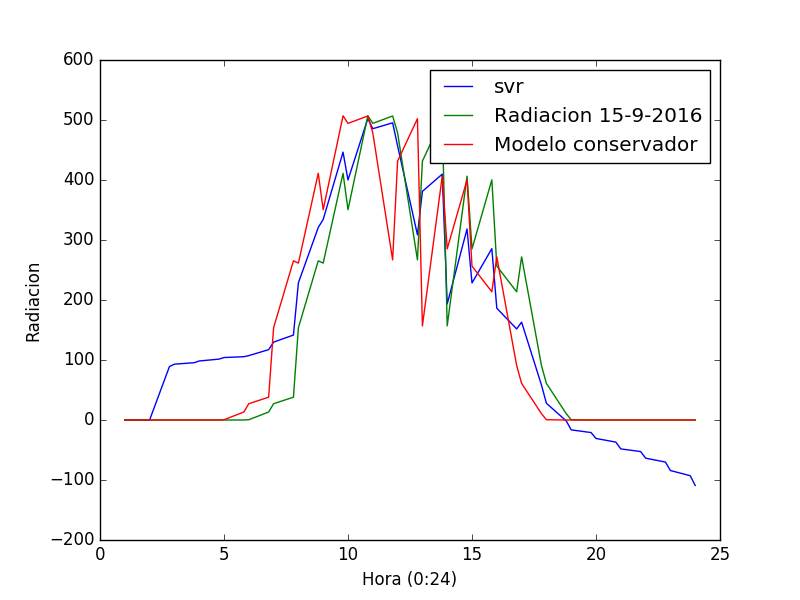
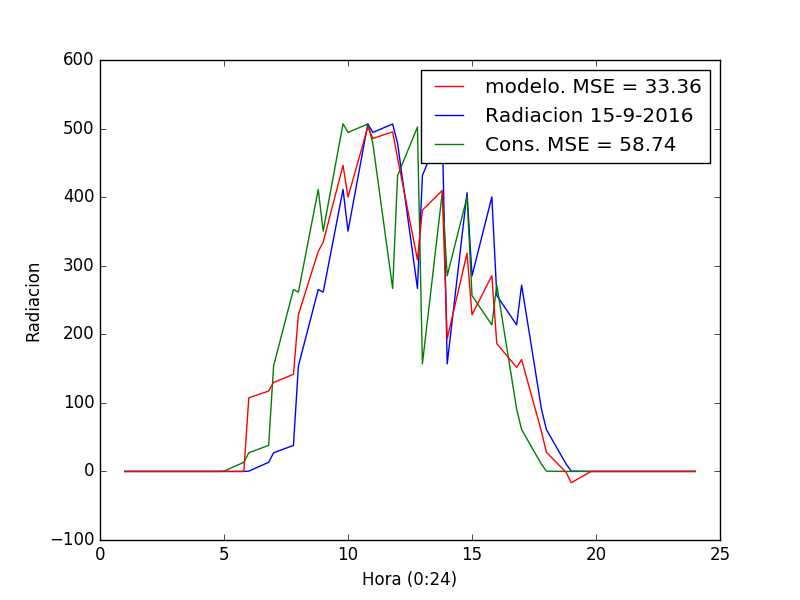
new plots and TODOS

diff --git a/memoria/chapter7.tex b/memoria/chapter7.tex
@@ -107,6 +107,8 @@ En el capítulo \ref{Appendix:Key2} (Anexo: Gráficas SVR) podemos observar vari
 
 % Explicar que "MSE" es mean square error que significa el error medio al cuadrado. Es la media de las restas entre la prediccion y lo real al cuadrado. Para poder ver cuándo falla más y cuándo menos, se puede ver cuándo tiene menor MSE.
 
+% La unidad de medida del MSE es la misma que la de la predicción (W/m^2) y dice cuánta diferencia media (por arriba o por abajo porque es al cuadrado) hay con respecto a lo real
+
 % Hacer esto para los tres modelos
 
 \section{Redes Neuronales}
